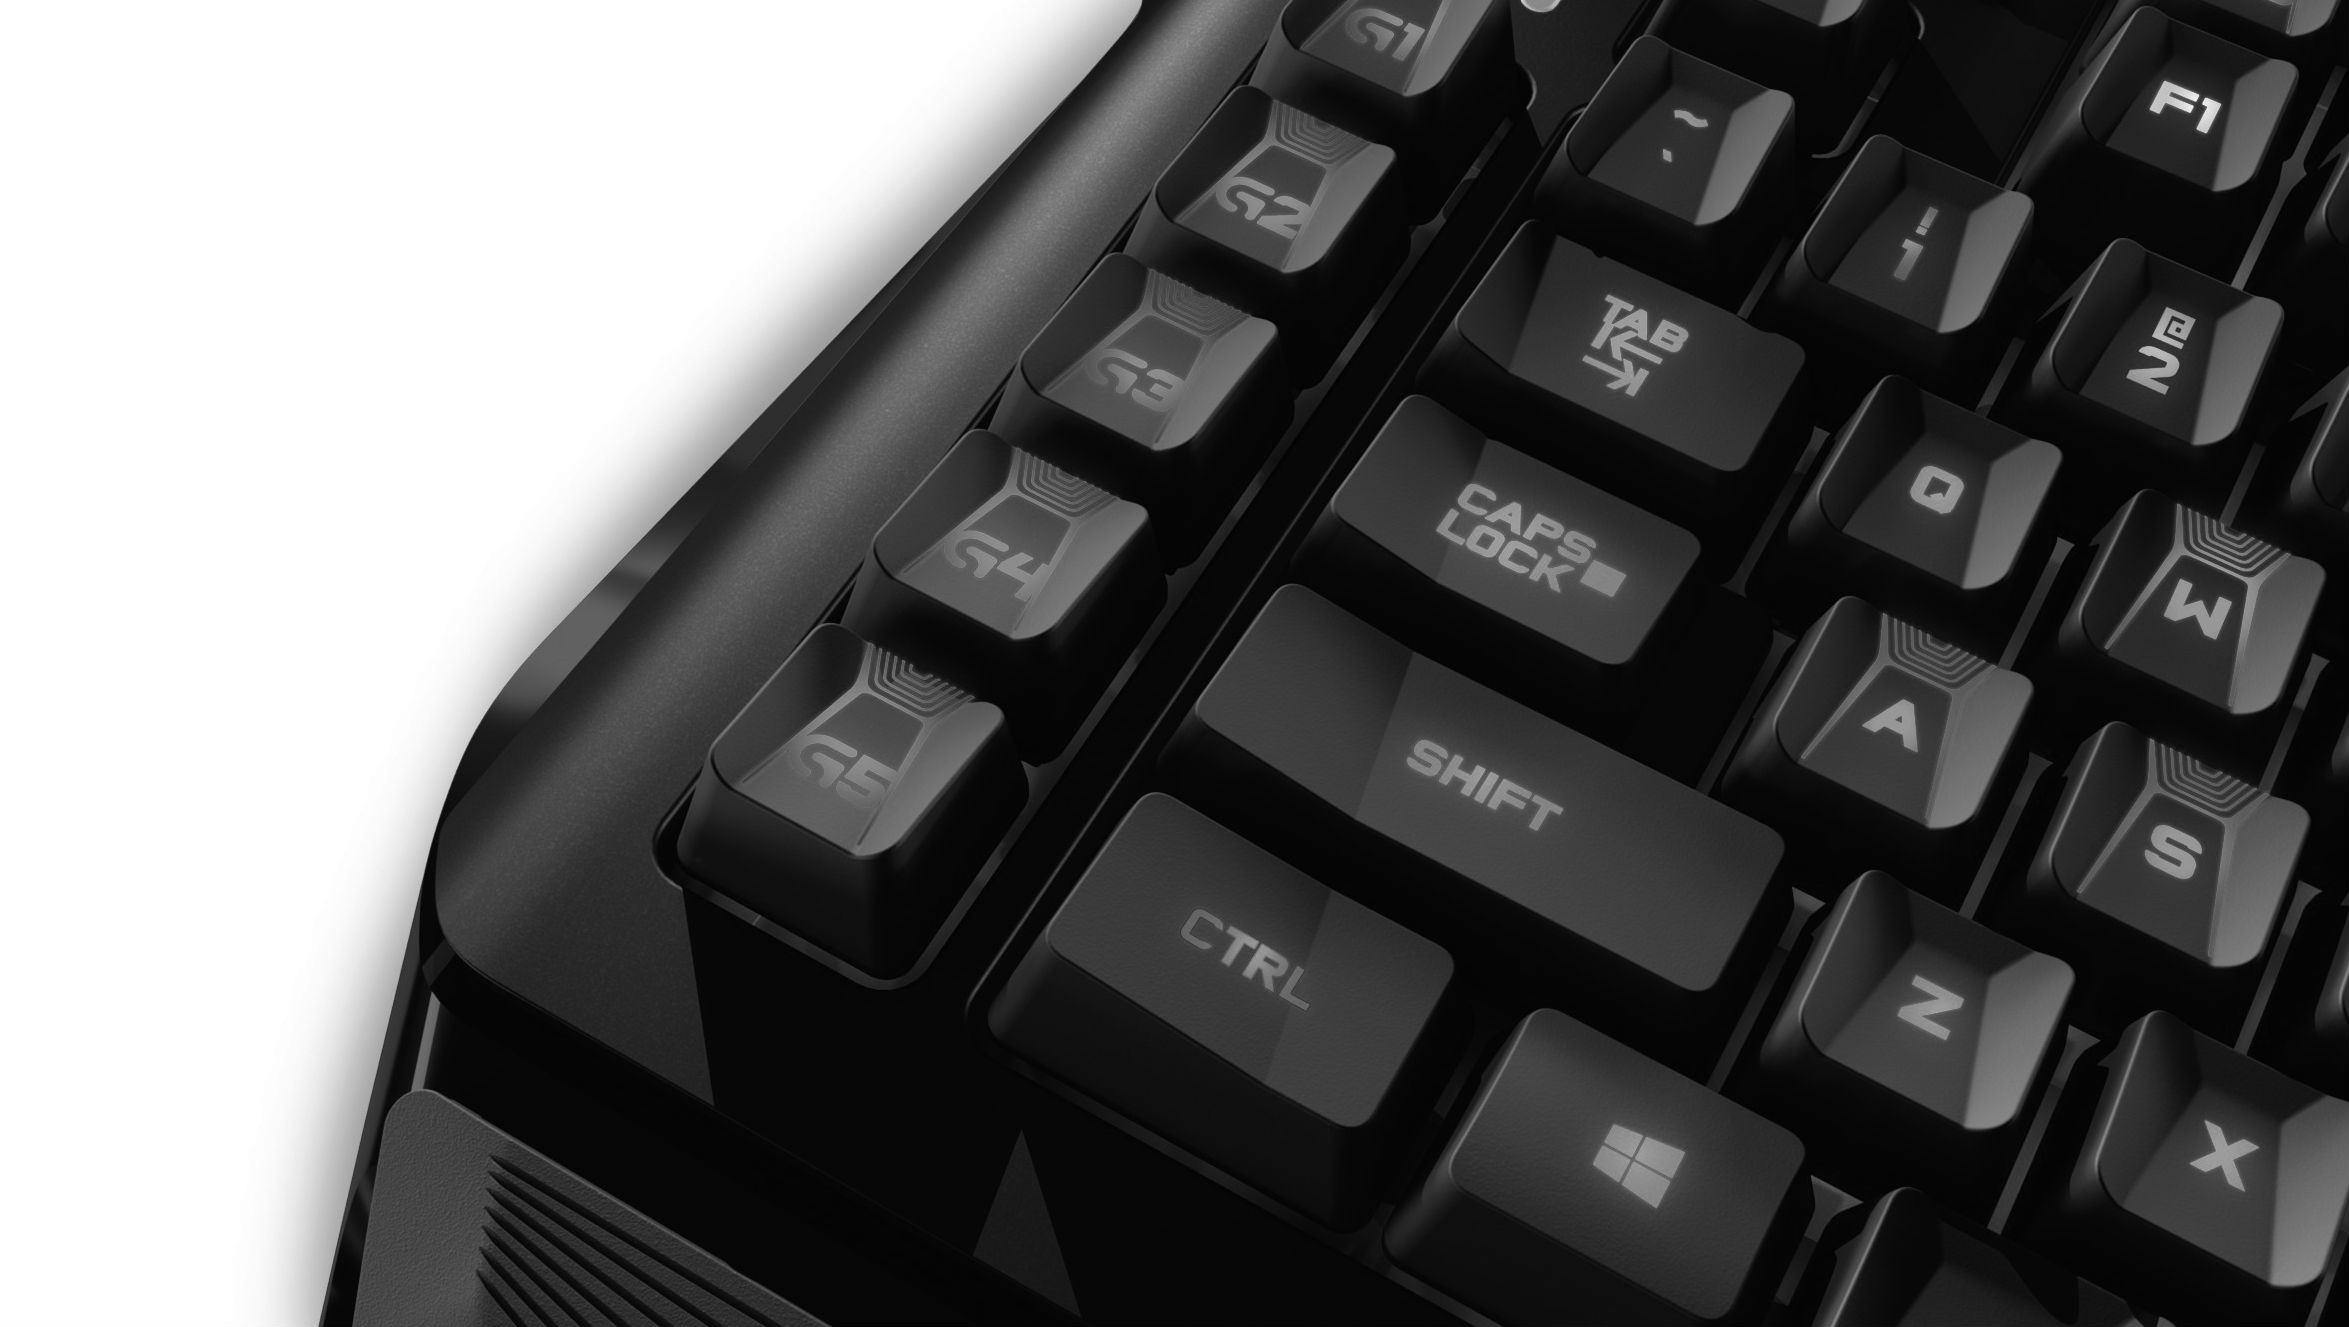
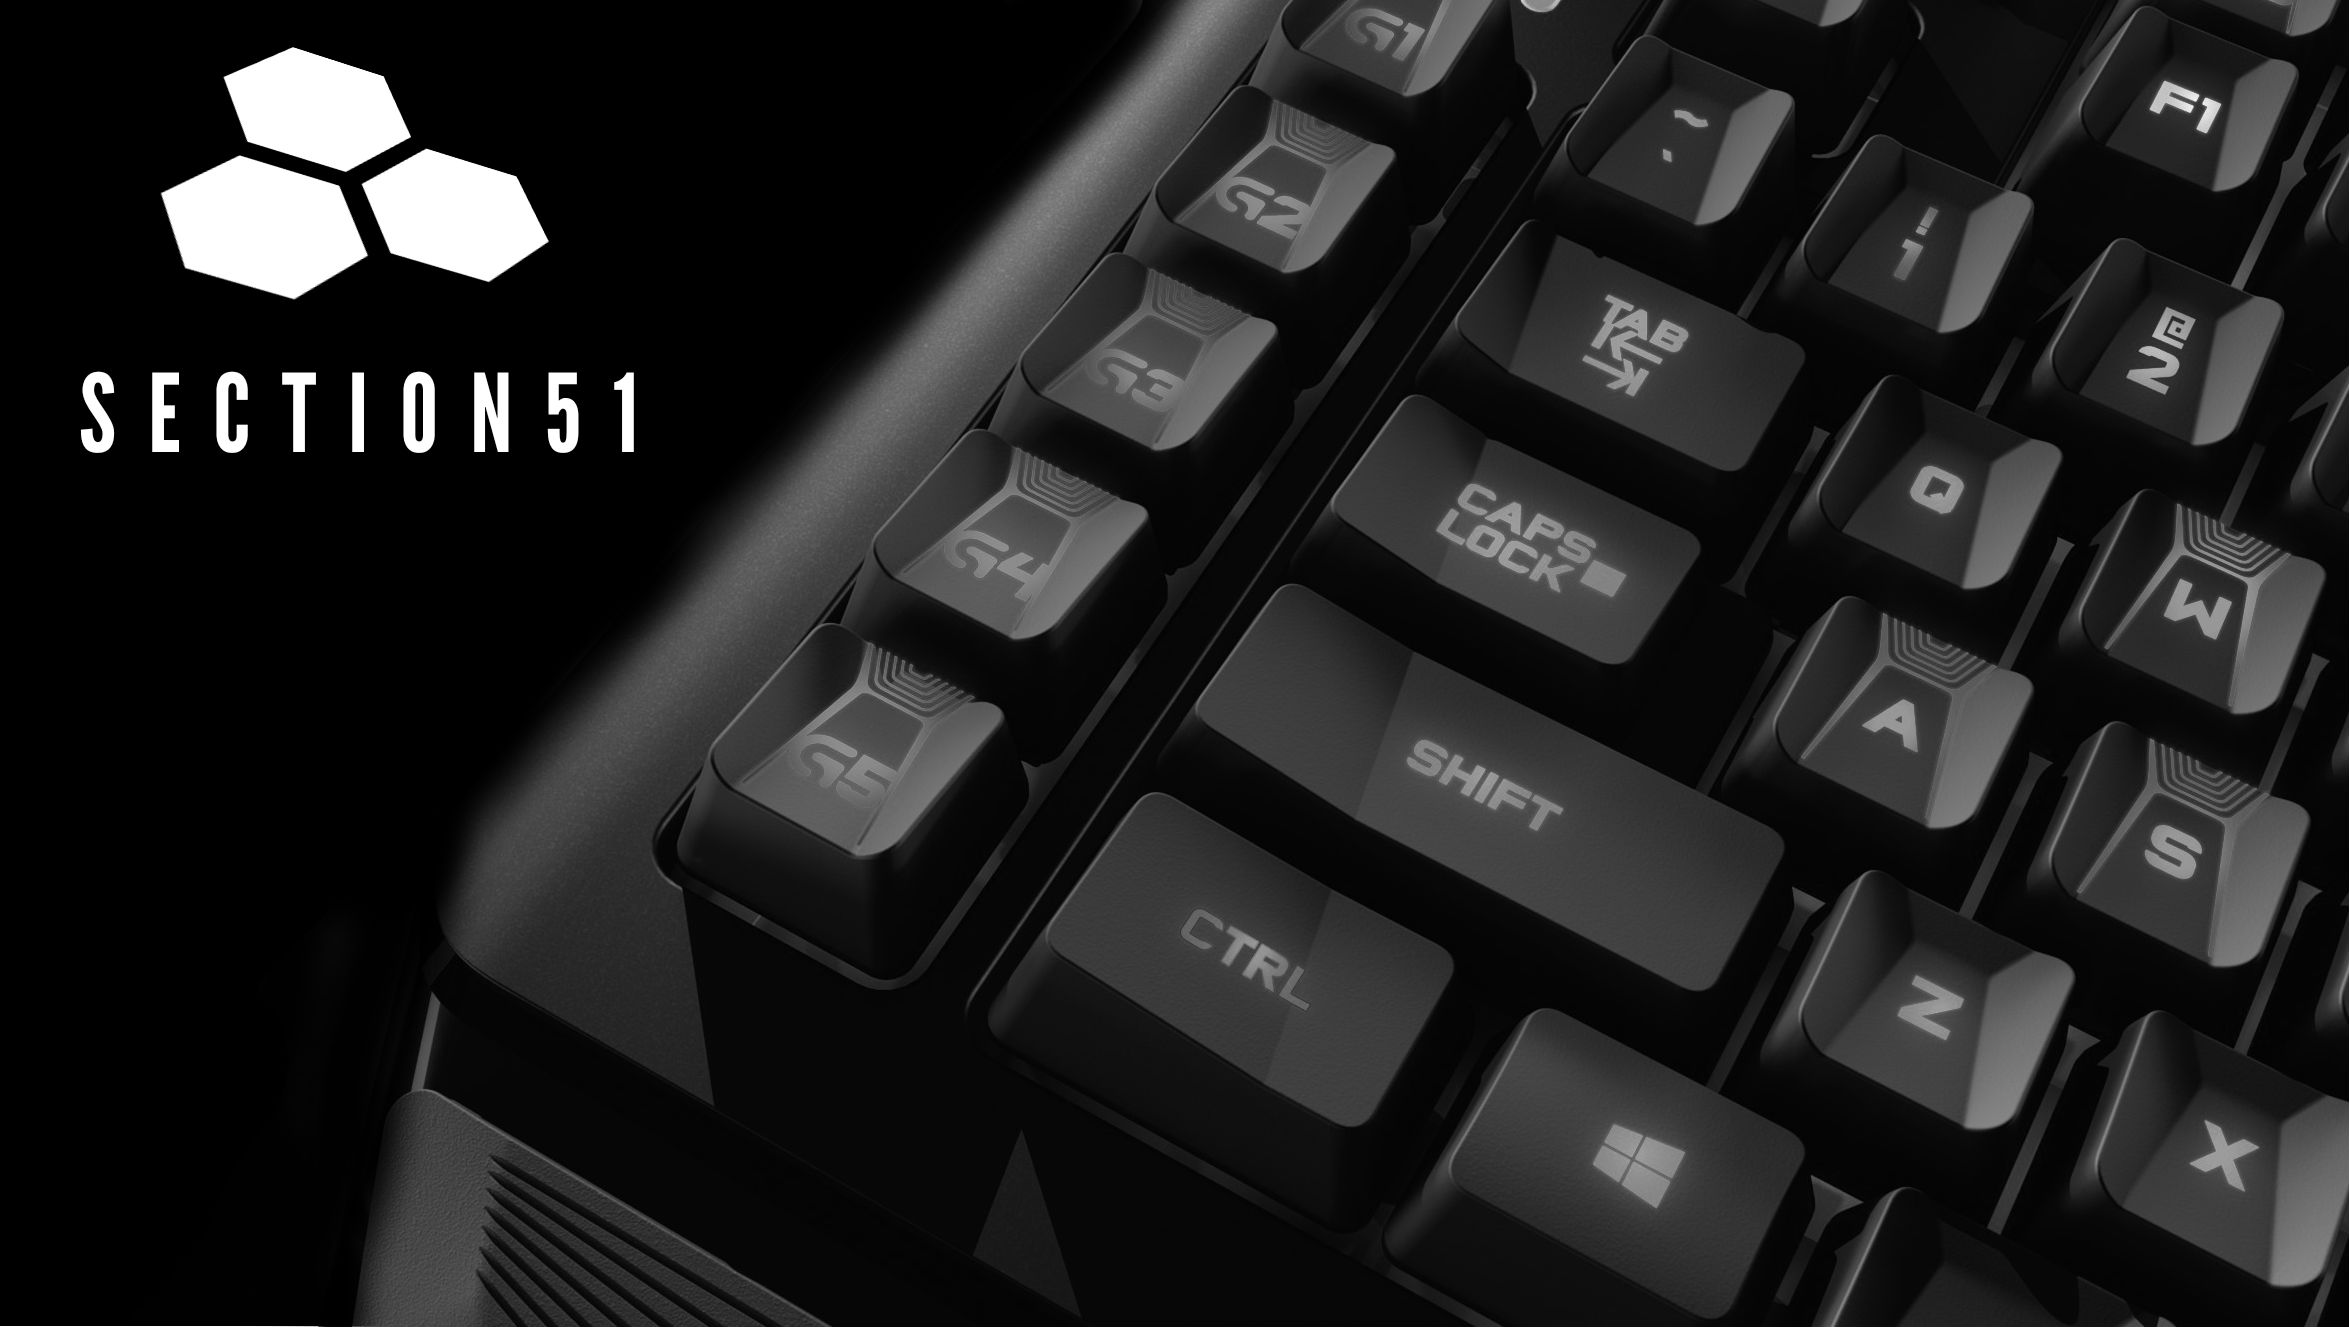
Photos added, and bottom text centered

Changed region(s): [[0.0, 0.0, 0.4972, 1.0]]

diff --git a/company.html b/company.html
@@ -67,7 +67,7 @@
         <div class="innerContainer">
         <div class="Productdisplay">
             <div class="Pimage">
-                <img src="http://matogconsulting.com/wp-content/uploads/2012/06/company_formation.jpg" alt="Company image">
+                <img src="img/logowhite.png" alt="Company image">
             </div>
             <div class="Pinfo">
                 <h2>Section 51</h2>
@@ -85,37 +85,37 @@
         <div class="ReviewM" id=ReviewM>
             <div class ="Ritem">
                 <div class="Rimage">
-                    <img src="http://xenobladechronicles3d.nintendo.com/assets/images/media/shulk-icon.jpg" alt="Pro logo">
+                    <img src="img/jonas.jpg" alt="Pro logo">
                 </div>
                 <div class="Rcontent">
-                    <h5> Dracalu </h5>
+                    <h5> Jonas </h5>
                 </div>
             </div>
 
             <div class ="Ritem">
                 <div class="Rimage">
-                    <img src="http://xenobladechronicles3d.nintendo.com/assets/images/media/shulk-icon.jpg" alt="Pro logo">
+                    <img src="img/Dennis.jpg" alt="Pro logo">
                 </div>
                 <div class="Rcontent">
-                    <h5> Hsa </h5>
+                    <h5> Dennis </h5>
                 </div>
             </div>
 
             <div class ="Ritem">
                 <div class="Rimage">
-                    <img src="http://xenobladechronicles3d.nintendo.com/assets/images/media/shulk-icon.jpg" alt="Pro logo">
+                    <img src="img/Chris.jpg" alt="Pro logo">
                 </div>
                 <div class="Rcontent">
-                    <h5> Hansel </h5>
+                    <h5> Christopher </h5>
                 </div>
             </div>
 
             <div class ="Ritem">
                 <div class="Rimage">
-                    <img src="http://xenobladechronicles3d.nintendo.com/assets/images/media/shulk-icon.jpg" alt="Pro logo">
+                    <img src="img/an.jpg" alt="Pro logo">
                 </div>
                 <div class="Rcontent">
-                    <h5> Ku Kulän </h5>
+                    <h5> MR.? </h5>
                 </div>
             </div>
         </div>

diff --git a/css/cstyle.css b/css/cstyle.css
@@ -65,9 +65,14 @@ body {
   text-align: left;
 }
 
+.Pimage {
+    margin: 0 auto;
+    padding-top: 20px;
+}
+
+
 .Pimage>img {
   align-self: center;
-  width: 100%;
   height: 200px;
 }
 
@@ -108,12 +113,15 @@ body {
 }
 
 .SpecM {
+    padding: 20px;
     border-bottom: solid 1px gray;
     border-top: solid 1px gray;
+    text-align: center;
 }
 
 .SpecM > h4 {
-    text-align: left;
+    padding-bottom: 10px;
+    text-align: center;
     border-top: black solid 1px;
 }
 
